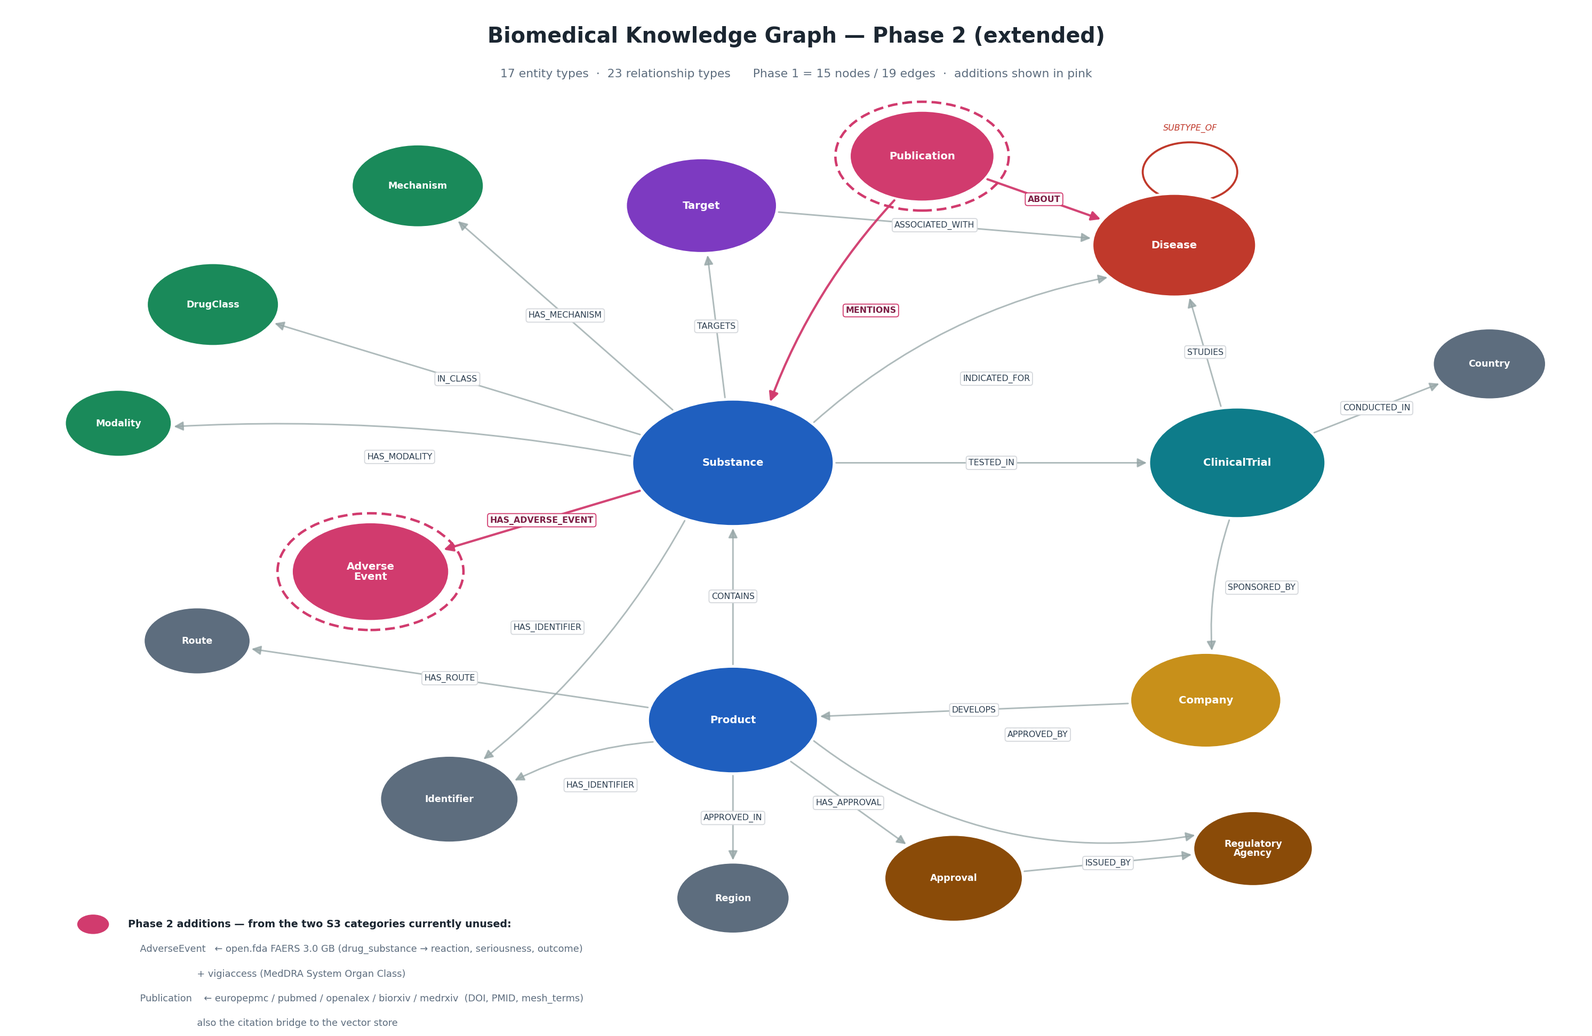
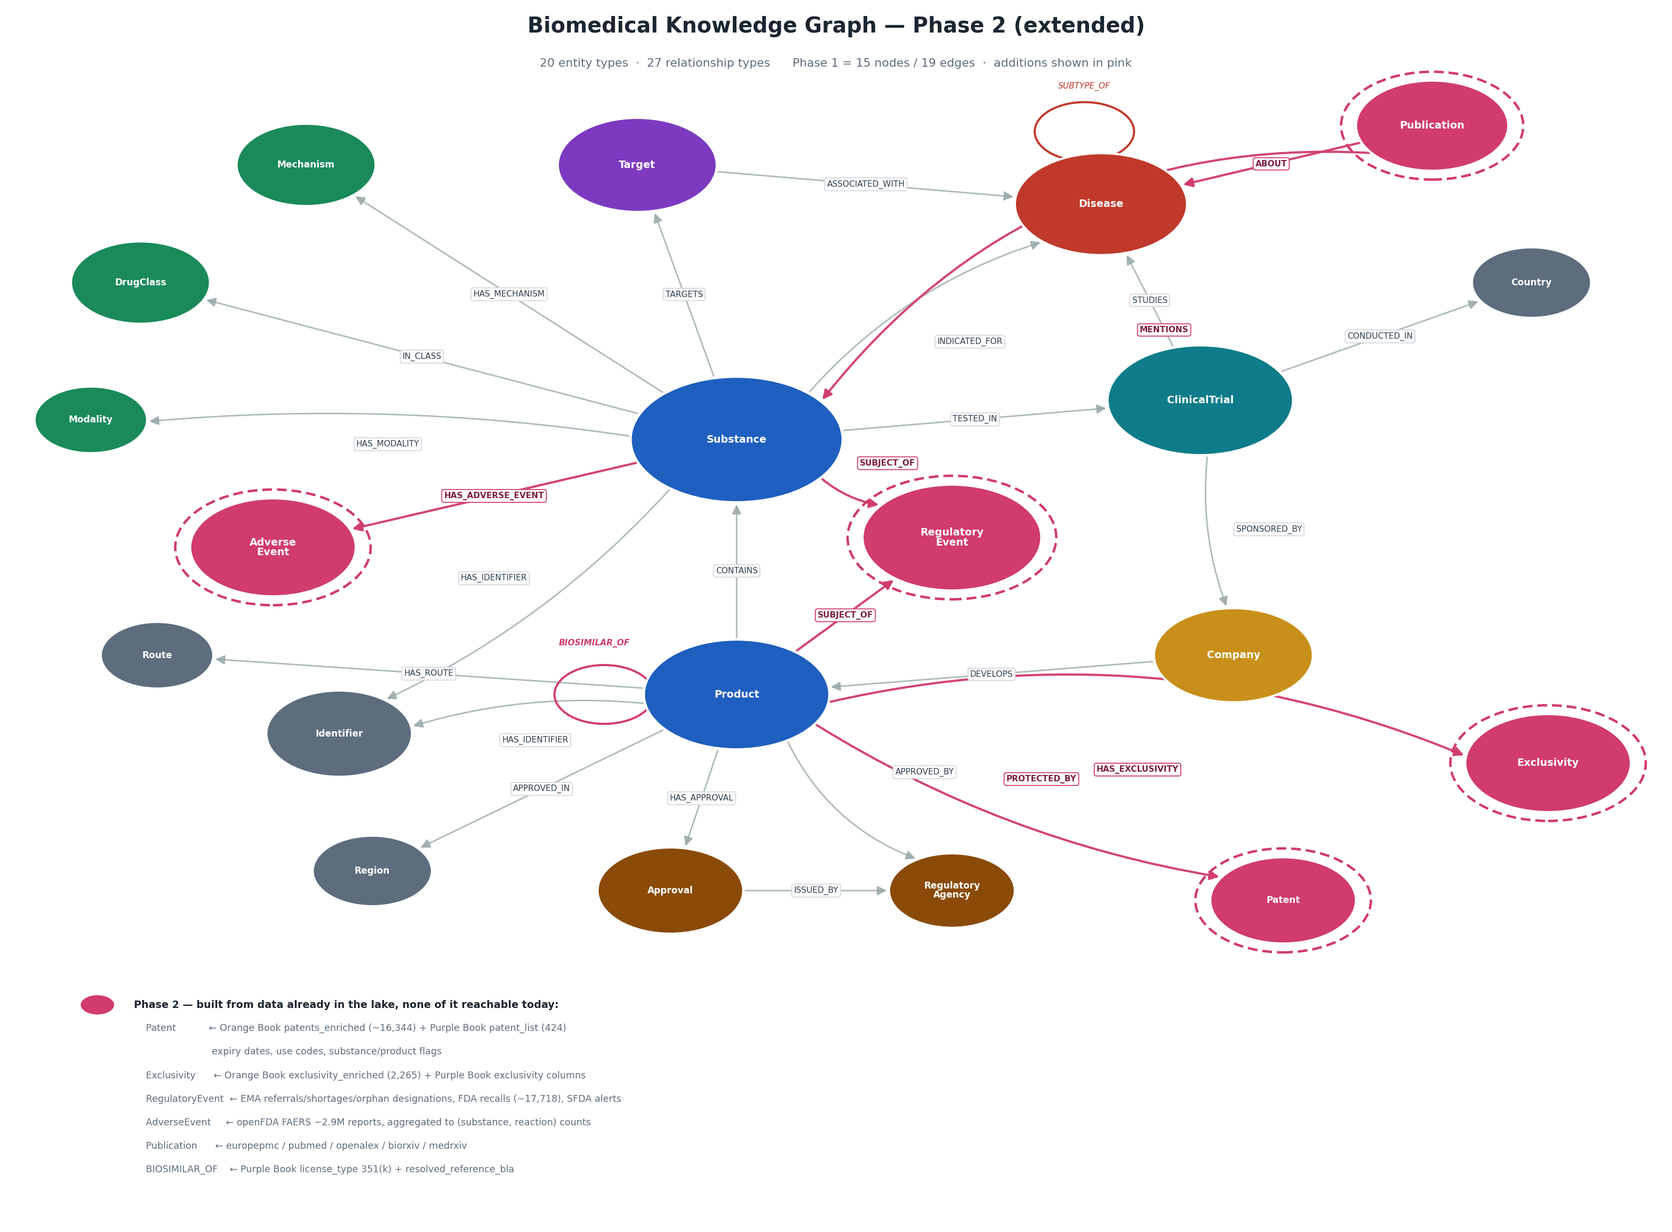
Extend the graph schema with patents, exclusivity and regulatory events
Phase 2 goes from 17 nodes / 23 edges to 20 / 27, all from data already in the
lake and none of it reachable today. The three new node types came out of
re-profiling on 2026-07-28, which surfaced four FDA sources the earlier profile
had missed.

Patent (Orange Book patents_enriched ~16,344 + Purple Book patent_list 424) and
Exclusivity (2,265 + Purple Book's four exclusivity date columns) are the
substantive addition. They answer "when does this product lose protection, and
which patents block a generic" - a question the vector store structurally
cannot touch, because an SPC does not discuss patents. Exclusivity is a node
rather than a property so "everything expiring in 2027" is a traversal instead
of a scan.

BIOSIMILAR_OF comes free: Purple Book distinguishes 351(a) originators from
351(k) biosimilars and names the reference product in resolved_reference_bla,
so the originator-to-biosimilar relationship needs no inference.

AdverseEvent is loaded from FAERS as aggregates - one edge per (substance,
reaction) with report/serious/death counts - not as 2.9M report nodes, which
would dominate the graph and answer nothing the counts do not.

RegulatoryEvent is one node with a type discriminator rather than seven.
Referrals, shortages, orphan designations, DHPCs, recalls, safety alerts and
risk-minimisation measures are the same concept recorded by different
authorities; splitting them would fragment "what has this product attracted".
[…]

diff --git a/graph/make_schema_png.py b/graph/make_schema_png.py
@@ -1,10 +1,17 @@
 #!/usr/bin/env python3
 """Render the Phase-2 (extended) graph schema as a PNG.
 
-Phase 1 = the 15 nodes / 19 edges already specified in SCHEMA.md.
-Phase 2 adds AdverseEvent and Publication, drawn highlighted, from the two S3
-categories that currently contribute nothing (Safety_Pharmacovigilance 3.0 GB,
-Literature_Evidence 2.3 GB).
+Phase 1 = the 15 nodes / 19 edges specified in SCHEMA.md.
+Phase 2 adds five nodes, drawn highlighted:
+
+  AdverseEvent      openfda FAERS ~2.9M reports (aggregated to counts)
+  Publication       the literature CSVs
+  Patent            Orange Book ~16.3k + Purple Book 424
+  Exclusivity       Orange Book 2,265 + Purple Book exclusivity columns
+  RegulatoryEvent   EMA referrals/shortages/orphan, FDA recalls, SFDA alerts
+
+The last three came from re-profiling the lake on 2026-07-28, which surfaced
+four FDA sources the earlier profile had missed.
 """
 import matplotlib
 matplotlib.use("Agg")
@@ -12,9 +19,9 @@ import matplotlib.pyplot as plt
 from matplotlib.patches import FancyArrowPatch, Circle
 import numpy as np
 
-W, H = 20, 13
+W, H = 21, 15.5
 fig, ax = plt.subplots(figsize=(W, H), dpi=150)
-ax.set_xlim(0, 100); ax.set_ylim(0, 100); ax.axis("off")
+ax.set_xlim(0, 100); ax.set_ylim(-24, 100); ax.axis("off")
 fig.patch.set_facecolor("white")
 
 CORE   = "#1f5fbf"   # Substance / Product
@@ -27,120 +34,142 @@ CLASS  = "#1a8a5a"   # Mechanism / DrugClass / Modality
 GREY   = "#5d6d7e"   # Country / Region / Route / Identifier
 NEW    = "#d13b6e"   # Phase-2 additions
 
-#            x    y    r    colour  label                 new?
+#            x    y    r    colour  label                  new?
 NODES = {
- "Substance":        (46, 54, 6.4, CORE,   "Substance",          False),
- "Product":          (46, 28, 5.4, CORE,   "Product",            False),
- "Disease":          (74, 76, 5.2, BIO,    "Disease",            False),
- "Target":           (44, 80, 4.8, TARGET, "Target",             False),
- "ClinicalTrial":    (78, 54, 5.6, CLIN,   "ClinicalTrial",      False),
- "Company":          (76, 30, 4.8, COMP,   "Company",            False),
- "Country":          (94, 64, 3.6, GREY,   "Country",            False),
- "Mechanism":        (26, 82, 4.2, CLASS,  "Mechanism",          False),
- "DrugClass":        (13, 70, 4.2, CLASS,  "DrugClass",          False),
- "Modality":         (7,  58, 3.4, CLASS,  "Modality",           False),
- "Route":            (12, 36, 3.4, GREY,   "Route",              False),
- "Identifier":       (28, 20, 4.4, GREY,   "Identifier",         False),
- "Region":           (46, 10, 3.6, GREY,   "Region",             False),
- "Approval":         (60, 12, 4.4, REG,    "Approval",           False),
- "RegulatoryAgency": (79, 15, 3.8, REG,    "Regulatory\nAgency", False),
+ "Substance":        (44, 56, 6.4, CORE,   "Substance",           False),
+ "Product":          (44, 30, 5.6, CORE,   "Product",             False),
+ "Disease":          (66, 80, 5.2, BIO,    "Disease",             False),
+ "Target":           (38, 84, 4.8, TARGET, "Target",              False),
+ "ClinicalTrial":    (72, 60, 5.6, CLIN,   "ClinicalTrial",       False),
+ "Company":          (74, 34, 4.8, COMP,   "Company",             False),
+ "Country":          (92, 72, 3.6, GREY,   "Country",             False),
+ "Mechanism":        (18, 84, 4.2, CLASS,  "Mechanism",           False),
+ "DrugClass":        (8,  72, 4.2, CLASS,  "DrugClass",           False),
+ "Modality":         (5,  58, 3.4, CLASS,  "Modality",            False),
+ "Route":            (9,  34, 3.4, GREY,   "Route",               False),
+ "Identifier":       (20, 26, 4.4, GREY,   "Identifier",          False),
+ "Region":           (22, 12, 3.6, GREY,   "Region",              False),
+ "Approval":         (40, 10, 4.4, REG,    "Approval",            False),
+ "RegulatoryAgency": (57, 10, 3.8, REG,    "Regulatory\nAgency",  False),
  # --- Phase 2 ---
- "AdverseEvent":     (23, 43, 5.0, NEW,    "Adverse\nEvent",     True),
- "Publication":      (58, 85, 4.6, NEW,    "Publication",        True),
+ "AdverseEvent":     (16, 45, 5.0, NEW,    "Adverse\nEvent",      True),
+ "Publication":      (86, 88, 4.6, NEW,    "Publication",         True),
+ "RegulatoryEvent":  (57, 46, 5.4, NEW,    "Regulatory\nEvent",   True),
+ "Patent":           (77,  9, 4.4, NEW,    "Patent",              True),
+ "Exclusivity":      (93, 23, 5.0, NEW,    "Exclusivity",         True),
 }
 
-#      src              dst              label                curve  new?
+#      src              dst              label                  curve  new?
 EDGES = [
- ("Product","Substance","CONTAINS",                 0.00, False),
- ("Company","Product","DEVELOPS",                   0.00, False),
- ("ClinicalTrial","Company","SPONSORED_BY",         0.10, False),
- ("ClinicalTrial","Disease","STUDIES",              0.00, False),
- ("ClinicalTrial","Country","CONDUCTED_IN",         0.00, False),
- ("Substance","ClinicalTrial","TESTED_IN",          0.00, False),
- ("Substance","Disease","INDICATED_FOR",           -0.14, False),
- ("Substance","Target","TARGETS",                   0.00, False),
- ("Target","Disease","ASSOCIATED_WITH",             0.00, False),
- ("Substance","Mechanism","HAS_MECHANISM",          0.00, False),
- ("Substance","DrugClass","IN_CLASS",               0.00, False),
- ("Substance","Modality","HAS_MODALITY",            0.06, False),
- ("Substance","Identifier","HAS_IDENTIFIER",       -0.10, False),
- ("Product","Identifier","HAS_IDENTIFIER",          0.10, False),
- ("Product","Route","HAS_ROUTE",                    0.00, False),
- ("Product","Region","APPROVED_IN",                 0.00, False),
- ("Product","Approval","HAS_APPROVAL",              0.00, False),
- ("Product","RegulatoryAgency","APPROVED_BY",       0.22, False),
- ("Approval","RegulatoryAgency","ISSUED_BY",        0.00, False),
+ ("Product","Substance","CONTAINS",                   0.00, False),
+ ("Company","Product","DEVELOPS",                     0.00, False),
+ ("ClinicalTrial","Company","SPONSORED_BY",           0.12, False),
+ ("ClinicalTrial","Disease","STUDIES",                0.00, False),
+ ("ClinicalTrial","Country","CONDUCTED_IN",           0.00, False),
+ ("Substance","ClinicalTrial","TESTED_IN",            0.00, False),
+ ("Substance","Disease","INDICATED_FOR",             -0.14, False),
+ ("Substance","Target","TARGETS",                     0.00, False),
+ ("Target","Disease","ASSOCIATED_WITH",               0.00, False),
+ ("Substance","Mechanism","HAS_MECHANISM",            0.00, False),
+ ("Substance","DrugClass","IN_CLASS",                 0.00, False),
+ ("Substance","Modality","HAS_MODALITY",              0.06, False),
+ ("Substance","Identifier","HAS_IDENTIFIER",         -0.10, False),
+ ("Product","Identifier","HAS_IDENTIFIER",            0.10, False),
+ ("Product","Route","HAS_ROUTE",                      0.00, False),
+ ("Product","Region","APPROVED_IN",                   0.00, False),
+ ("Product","Approval","HAS_APPROVAL",                0.00, False),
+ ("Product","RegulatoryAgency","APPROVED_BY",         0.20, False),
+ ("Approval","RegulatoryAgency","ISSUED_BY",          0.00, False),
  # --- Phase 2 ---
- ("Substance","AdverseEvent","HAS_ADVERSE_EVENT",   0.00, True),
- ("Publication","Disease","ABOUT",                  0.00, True),
- ("Publication","Substance","MENTIONS",             0.10, True),
+ ("Substance","AdverseEvent","HAS_ADVERSE_EVENT",     0.00, True),
+ ("Publication","Disease","ABOUT",                    0.00, True),
+ ("Publication","Substance","MENTIONS",               0.26, True),
+ ("Product","Patent","PROTECTED_BY",                  0.10, True),
+ ("Product","Exclusivity","HAS_EXCLUSIVITY",         -0.16, True),
+ ("Product","RegulatoryEvent","SUBJECT_OF",           0.00, True),
+ ("Substance","RegulatoryEvent","SUBJECT_OF",         0.14, True),
 ]
 
+
 def edge_pts(a, b, shrink=1.0):
-    x1,y1,r1,*_ = NODES[a]; x2,y2,r2,*_ = NODES[b]
-    dx,dy = x2-x1, y2-y1
-    d = np.hypot(dx,dy) or 1
-    ux,uy = dx/d, dy/d
-    return (x1+ux*r1*shrink, y1+uy*r1*shrink), (x2-ux*r2*shrink, y2-uy*r2*shrink)
+    x1, y1, r1, *_ = NODES[a]
+    x2, y2, r2, *_ = NODES[b]
+    dx, dy = x2 - x1, y2 - y1
+    d = np.hypot(dx, dy) or 1
+    ux, uy = dx / d, dy / d
+    return (x1 + ux * r1 * shrink, y1 + uy * r1 * shrink), \
+           (x2 - ux * r2 * shrink, y2 - uy * r2 * shrink)
+
 
 # ---- edges ----
-for a,b,label,curve,is_new in EDGES:
-    p1,p2 = edge_pts(a,b)
+for a, b, label, curve, is_new in EDGES:
+    p1, p2 = edge_pts(a, b)
     col = NEW if is_new else "#95a5a6"
-    ax.add_patch(FancyArrowPatch(p1, p2,
-        connectionstyle=f"arc3,rad={curve}",
+    ax.add_patch(FancyArrowPatch(
+        p1, p2, connectionstyle=f"arc3,rad={curve}",
         arrowstyle="-|>", mutation_scale=17,
         linewidth=2.0 if is_new else 1.4,
-        color=col, alpha=0.95 if is_new else 0.75, zorder=1,
-        linestyle="-" ))
-    mx,my = (p1[0]+p2[0])/2, (p1[1]+p2[1])/2
-    nx,ny = -(p2[1]-p1[1]), (p2[0]-p1[0])
-    n = np.hypot(nx,ny) or 1
-    mx += nx/n*curve*26; my += ny/n*curve*26
-    ax.text(mx,my,label, fontsize=7.6, ha="center", va="center", zorder=3,
+        color=col, alpha=0.95 if is_new else 0.75, zorder=1))
+    mx, my = (p1[0] + p2[0]) / 2, (p1[1] + p2[1]) / 2
+    nx, ny = -(p2[1] - p1[1]), (p2[0] - p1[0])
+    n = np.hypot(nx, ny) or 1
+    mx += nx / n * curve * 26
+    my += ny / n * curve * 26
+    ax.text(mx, my, label, fontsize=7.4, ha="center", va="center", zorder=3,
             color="#7d1f45" if is_new else "#2c3e50",
             fontweight="bold" if is_new else "normal",
-            bbox=dict(boxstyle="round,pad=0.28", fc="white",
+            bbox=dict(boxstyle="round,pad=0.26", fc="white",
                       ec=NEW if is_new else "#d5d8dc", lw=0.9, alpha=0.97))
 
-# Disease SUBTYPE_OF self-loop
-dx,dy,dr,*_ = NODES["Disease"]
-ax.add_patch(Circle((dx+1.0, dy+dr+2.2), 3.0, fill=False, ec=BIO, lw=1.8, zorder=1))
-ax.text(dx+1.0, dy+dr+6.4, "SUBTYPE_OF", fontsize=7.6, ha="center",
-        color=BIO, style="italic")
+# Self-loops. Disease loops above; Product loops to its left, because below it
+# the loop lands on the HAS_APPROVAL edge label.
+for key, lbl, col, side in (("Disease", "SUBTYPE_OF", BIO, "up"),
+                            ("Product", "BIOSIMILAR_OF", NEW, "left")):
+    x, y, r, *_ = NODES[key]
+    if side == "up":
+        cx, cy, tx, ty = x - 1.0, y + r + 2.2, x - 1.0, y + r + 6.6
+    else:
+        cx, cy, tx, ty = x - r - 2.4, y, x - r - 3.0, y + 5.0
+    ax.add_patch(Circle((cx, cy), 3.0, fill=False, ec=col, lw=1.9, zorder=1))
+    ax.text(tx, ty, lbl, fontsize=7.4, ha="center", color=col, style="italic",
+            fontweight="bold" if col == NEW else "normal")
 
 # ---- nodes ----
-for key,(x,y,r,col,label,is_new) in NODES.items():
+for key, (x, y, r, col, label, is_new) in NODES.items():
     if is_new:
-        ax.add_patch(Circle((x,y), r+0.9, fc="none", ec=NEW, lw=2.2,
-                            ls=(0,(4,2)), zorder=2))
-    ax.add_patch(Circle((x,y), r, fc=col, ec="white", lw=2.0, zorder=3))
-    ax.text(x, y, label, fontsize=9.4 if r>4.4 else 8.4, ha="center", va="center",
-            color="white", fontweight="bold", zorder=4, linespacing=0.95)
+        ax.add_patch(Circle((x, y), r + 0.9, fc="none", ec=NEW, lw=2.2,
+                            ls=(0, (4, 2)), zorder=2))
+    ax.add_patch(Circle((x, y), r, fc=col, ec="white", lw=2.0, zorder=3))
+    ax.text(x, y, label, fontsize=9.2 if r > 4.4 else 8.2, ha="center",
+            va="center", color="white", fontweight="bold", zorder=4,
+            linespacing=0.95)
 
-ax.text(50, 96.5, "Biomedical Knowledge Graph — Phase 2 (extended)",
+ax.text(50, 97.5, "Biomedical Knowledge Graph — Phase 2 (extended)",
         fontsize=19, ha="center", fontweight="bold", color="#1b2631")
-ax.text(50, 93.0,
-        "17 entity types  ·  23 relationship types      "
+ax.text(50, 94.0,
+        "20 entity types  ·  27 relationship types      "
         "Phase 1 = 15 nodes / 19 edges  ·  additions shown in pink",
         fontsize=10.5, ha="center", color="#5d6d7e")
 
 leg = [
- (NEW,  "Phase 2 additions — from the two S3 categories currently unused:"),
- (None, "    AdverseEvent   ← open.fda FAERS 3.0 GB (drug_substance → reaction, seriousness, outcome)"),
- (None, "                       + vigiaccess (MedDRA System Organ Class)"),
- (None, "    Publication    ← europepmc / pubmed / openalex / biorxiv / medrxiv  (DOI, PMID, mesh_terms)"),
- (None, "                       built from the literature CSVs, like every other node"),
+ (NEW,  "Phase 2 — built from data already in the lake, none of it reachable today:"),
+ (None, "    Patent           ← Orange Book patents_enriched (~16,344) + Purple Book patent_list (424)"),
+ (None, "                          expiry dates, use codes, substance/product flags"),
+ (None, "    Exclusivity      ← Orange Book exclusivity_enriched (2,265) + Purple Book exclusivity columns"),
+ (None, "    RegulatoryEvent  ← EMA referrals/shortages/orphan designations, FDA recalls (~17,718), SFDA alerts"),
+ (None, "    AdverseEvent     ← openFDA FAERS ~2.9M reports, aggregated to (substance, reaction) counts"),
+ (None, "    Publication      ← europepmc / pubmed / openalex / biorxiv / medrxiv"),
+ (None, "    BIOSIMILAR_OF    ← Purple Book license_type 351(k) + resolved_reference_bla"),
 ]
-y = 7.0
-for col,txt in leg:
+y = -2.0
+for col, txt in leg:
     if col:
-        ax.add_patch(Circle((5.4, y+0.35), 1.05, fc=col, ec="white", lw=1.2))
-        ax.text(7.6, y+0.35, txt, fontsize=9.2, va="center",
+        ax.add_patch(Circle((5.4, y + 0.35), 1.05, fc=col, ec="white", lw=1.2))
+        ax.text(7.6, y + 0.35, txt, fontsize=9.2, va="center",
                 color="#1b2631", fontweight="bold")
     else:
-        ax.text(7.6, y+0.35, txt, fontsize=8.5, va="center", color="#5d6d7e")
-    y -= 2.5
+        ax.text(7.6, y + 0.35, txt, fontsize=8.4, va="center", color="#5d6d7e")
+    y -= 2.4
 
 plt.tight_layout()
 out = "graph/schema_phase2.png"

diff --git a/graph/SCHEMA.md b/graph/SCHEMA.md
@@ -1,7 +1,8 @@
 # Graph schema — final specification
 
-15 node types · 19 relationship types.
-Derived from a column-level profile of all 433 CSVs in `s3://moine-data`.
+**Phase 1: 15 nodes · 19 relationships.  Phase 2: 20 nodes · 27 relationships.**
+Derived from a column-level profile of all 436 CSVs in `s3://moine-data`
+(52.5 GB, ~344M rows — see `csv_profile.txt`).
 
 Change from `stucture.jpg`: the original `Drug` node is split into
 **`Substance`** (the molecule / active ingredient) and **`Product`** (the
@@ -28,6 +29,12 @@ marketed, approved item). Everything else is unchanged. Rationale in §4.
 | 13 | **Mechanism** | `<name>` | `name`, `action_type` | **chembl `chembl_mechanisms.csv` + `chembl_action_types.csv`**, opentargets |
 | 14 | **Modality** | `<name>` | `name` | **chembl `chembl_usan_stems.csv` + `molecule_type`**, opentargets |
 | 15 | **Route** | `<name>` | `name` | canada `route.csv`, atcddd `adm_route`, orangebook `Dosage_Form_Route` |
+| | | | *— Phase 2 below —* | |
+| 16 | **AdverseEvent** | `MEDDRA:<norm_pt>` | `term`, `soc` | openfda `faers_*.csv` `reaction` (~2.9M reports), vigiaccess |
+| 17 | **Publication** | `DOI:<doi>` or `PMID:<id>` | `title`, `year`, `journal` | europepmc, pubmed, openalex, biorxiv, medrxiv |
+| 18 | **Patent** | `US:<patent_no>` | `patent_no`, `expire_date`, `use_code`, `use_definition`, `drug_substance_flag`, `drug_product_flag` | orangebook `patents_enriched.csv` (~16.3k), purplebook `patent_list.csv` (424) |
+| 19 | **Exclusivity** | `<appl_no>:<product_no>:<code>` | `code`, `date`, `definition`, `kind` | orangebook `exclusivity_enriched.csv` (2,265), purplebook 4 exclusivity date columns |
+| 20 | **RegulatoryEvent** | `<AGENCY>:<type>:<reference>` | `type`, `status`, `reason`, `start_date`, `end_date`, `url` | ema `referrals`/`shortages`/`orphan_designations`/`dhpc`, openfda `drug_recalls` (~17.7k), sfda `Safety_Alert`/`Shortage_Drugs_List`/`Risk_Minimization_Measures_List` |
 
 ## 2. Relationships
 
@@ -53,7 +60,20 @@ marketed, approved item). Everything else is unchanged. Rationale in §4.
 | 18 | `(Approval)-[:ISSUED_BY]->(RegulatoryAgency)` | derived from source | derived |
 | 19 | `(Product)-[:APPROVED_IN]->(Region)` | derived from agency | derived |
 
-Utility edge (not part of the 19): `(ClinicalTrial)-[:SAME_STUDY_AS]-(ClinicalTrial)`
+### Phase 2 relationships
+
+| # | pattern | source | method |
+|---|---|---|---|
+| 20 | `(Disease)-[:SUBTYPE_OF]->(Disease)` self-loop | meshb tree numbers | computed |
+| 21 | `(Substance)-[:HAS_ADVERSE_EVENT]->(AdverseEvent)` | openfda faers — **aggregated** to one edge per (substance, reaction) carrying `report_count`, `serious_count`, `death_count`, `first_report`, `last_report` | structured |
+| 22 | `(Publication)-[:ABOUT]->(Disease)` | europepmc/pubmed `mesh_terms` | dictionary |
+| 23 | `(Publication)-[:MENTIONS]->(Substance)` | literature abstracts | dictionary |
+| 24 | `(Product)-[:PROTECTED_BY]->(Patent)` | orangebook `patents_enriched` on `Appl_No`+`Product_No`; purplebook `patent_numbers` | structured |
+| 25 | `(Product)-[:HAS_EXCLUSIVITY]->(Exclusivity)` | orangebook `exclusivity_enriched`; purplebook exclusivity columns | structured |
+| 26 | `(Product\|Substance)-[:SUBJECT_OF]->(RegulatoryEvent)` | ema referrals/shortages/orphan designations, openfda recalls, sfda alerts | structured |
+| 27 | `(Product)-[:BIOSIMILAR_OF]->(Product)` | purplebook `resolved_reference_bla` + `license_type` (`351(k)` → `351(a)`) | structured |
+
+Utility edge (not part of the counts): `(ClinicalTrial)-[:SAME_STUDY_AS]-(ClinicalTrial)`
 from `who_trials` cross-references, so the same study registered in several
 registries is linked rather than merged.
 
@@ -132,3 +152,79 @@ queries). Two of the three risks previously listed here are resolved.*
   until its parser is fixed.
 - Cross-registry trial duplication: the same study appears in several
   registries. `who_trials` must drive `SAME_STUDY_AS` or trial counts inflate.
+
+
+---
+
+## 6. Why the Phase-2 additions
+
+Added after re-profiling the lake on 2026-07-28, which surfaced four FDA sources
+the earlier profile had missed. They are absent from the vector store only
+because it indexes documents and all of this is CSV.
+
+### Patent and Exclusivity — the change of purpose
+
+Orange Book carries ~16,344 patents with expiry dates, use codes and
+substance/product flags; Purple Book adds 424 for biologics plus four kinds of
+exclusivity per product. Together they answer a question nothing else in the
+platform can:
+
+> *when does this product lose protection, and which patents block a generic?*
+
+The vector store cannot answer it — an SPC does not discuss patents. The graph
+can, in one traversal, and patent-cliff timing is the sort of question the
+platform exists to serve. This is the highest-value addition of the five.
+
+`Exclusivity` is a node rather than a property so that "everything expiring in
+2027" is a traversal rather than a scan of every product.
+
+### BIOSIMILAR_OF
+
+Purple Book resolves it for us: `license_type` distinguishes `351(a)`
+originators from `351(k)` biosimilars, and `resolved_reference_bla` names the
+reference product directly. No inference needed, and the competitive
+relationship between an originator and its biosimilars is not derivable from
+anything else in the lake.
+
+### AdverseEvent — aggregate at load
+
+FAERS carries `reaction` (MedDRA preferred term) alongside `drug_substance`,
+seriousness flags and outcome, across ~2.9M reports spanning 2020-2026Q1.
+
+**Load as counts, not reports.** One edge per (substance, reaction) pair with
+`report_count`, `serious_count` and `death_count` answers every question the
+individual reports would, without adding 2.9M nodes that dominate the graph.
+
+This complements the vector store rather than duplicating it: an SPC says a
+reaction is "rare"; FAERS says how often it was actually reported.
+
+### RegulatoryEvent — one node, not seven
+
+Referrals, shortages, orphan designations, DHPCs, recalls, safety alerts and
+risk-minimisation measures are the same concept — *something an agency did about
+a product* — recorded by different authorities in different tables. Seven node
+types would fragment it and make cross-agency queries awkward; one node with a
+`type` discriminator keeps "what regulatory actions has this product attracted"
+a single pattern.
+
+### Not new nodes
+
+`openfda drug_labels.csv` carries `pharm_class_epc` and `pharm_class_moa` —
+FDA's established pharmacologic class. Feed these into the existing `DrugClass`
+and `Mechanism` nodes as a third authority alongside ATC and ChEMBL.
+
+### Deferred
+
+`purplebook_raw_monthly.csv` (report title occupies the header row), and the EMA
+herbal / maximum-residue-limit / opinions-outside-EU tables — low volume, no
+clear graph role yet.
+
+### A cross-layer note
+
+`drug_labels.csv` (~22,914 rows) holds `indications_and_usage`, `warnings`,
+`adverse_reactions`, `contraindications` and `boxed_warning` as **full text**.
+That is FDA label prose sitting in a CSV. Chunked into the vector store with
+`section` mapped from the column name, it would give retrieval genuine FDA
+document coverage — which it currently lacks entirely. It belongs to the vector
+store rather than the graph, but it was found during this profiling and should
+not be lost.
